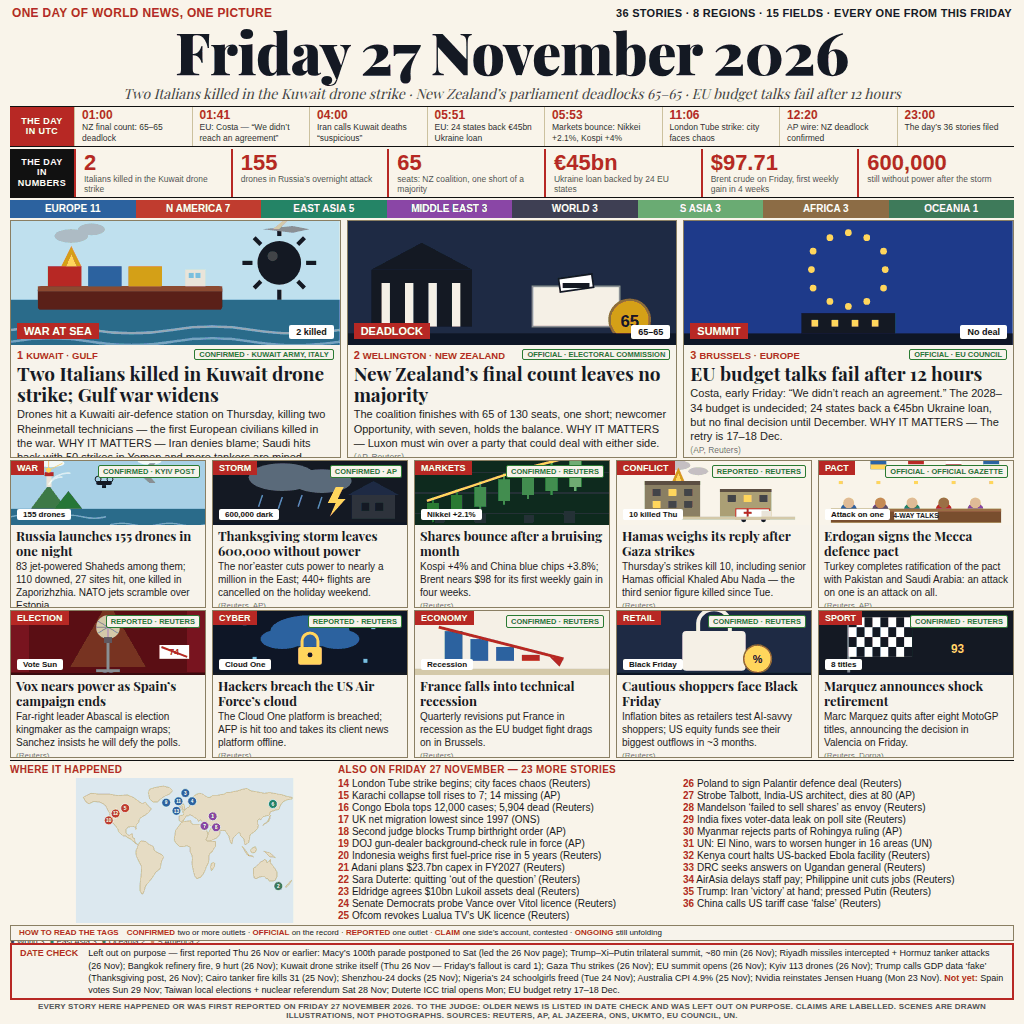
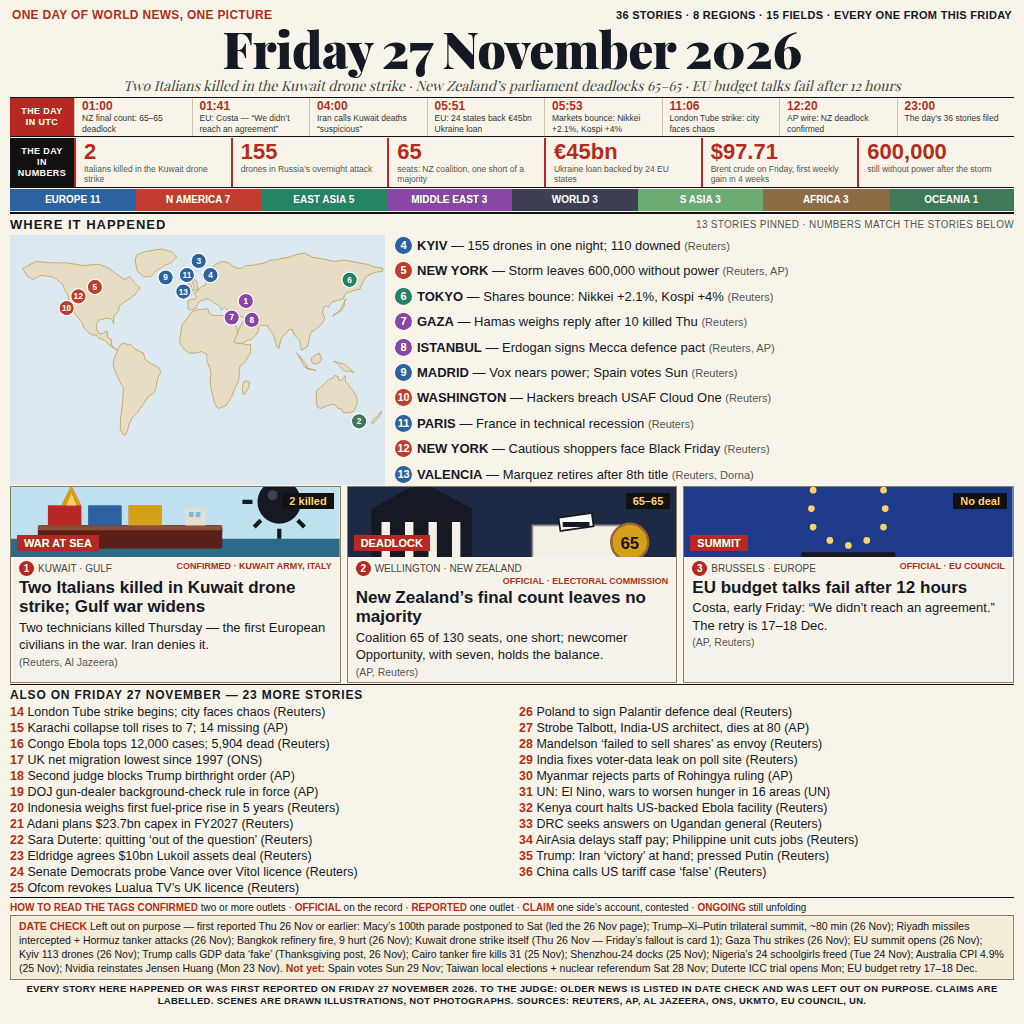
news-image 27 Nov 2026 v2: map-led rebuild, 36 stories

diff --git a/main.ts b/main.ts
@@ -1,20 +1,20 @@
-// World in One Image — Friday 27 November 2026, v1 (Node 22, stdlib only).
+// World in One Image — Friday 27 November 2026, v2 rebuild (Node 22, stdlib only).
 // The entry is the 1024x1024 front page in entry.png beside this file
-// (36 dated stories, 8 regions, 15 fields; rendered deterministically
-// from page-27nov.html, md5 4e20343dac16768e2f945e9b0c8b840e);
+// (36 dated stories, 8 regions, 15 fields; map-led rebuild, 3 lead cards,
+// rendered deterministically from page-27nov-v2.html,
+// md5 93032012a47e8e159cb2d42706525808);
 // the program copies it to /output/entry.png. The gate takes a whole
 // PNG of at most 1 MiB and 1024 by 1024 pixels, and the judge sees
 // exactly the bytes copied. Built from a late research pass (Fri 27 Nov
 // 22:00-22:20 WIB, Reuters/AP + full-day digest + live top-3 benchmark
 // of this edition): the Gulf war widens as two Italians are killed in
 // the Kuwait drone strike, New Zealand's final count deadlocks 65-65,
-// and EU budget talks fail after 12 hours.
-// Verified 27 Nov 2026 ~22:30 WIB: the copy reproduces entry.png byte
-// for byte (md5 4e20343dac16768e2f945e9b0c8b840e), and the page was read
+// and EU budget talks fail after 12 hours. v2 rebuilds the template
+// from zero (28 Nov rebuild brief, pulled into this session on the
+// user's order): map-led, 3 cards, bigger type, readable at 300px.
+// Verified 27 Nov 2026 ~23:05 WIB: the copy reproduces entry.png byte
+// for byte (md5 93032012a47e8e159cb2d42706525808), and the page was read
 // at full size, cropped row by row, and at 300px before submitting.
-// Re-verified after the GitHub push (22:32 WIB): all five remote files
-// byte-identical to local (entry.png md5 4e20343d...), root commit holds
-// only .makefun/freshness.json, HEAD f3c994bd.
 //
 // Outside the grader's container, MAKEFUN_OUTPUT_DIR stands in for /output:
 //   mkdir -p out && MAKEFUN_OUTPUT_DIR=out node main.ts

diff --git a/README.md b/README.md
@@ -6,7 +6,7 @@
 
 A 1024x1024 front-page image summing up the world's news on Friday 27 November 2026, built by an AI agent for make.fun's “Sum up 27 November's world news in one image” bounty, $100 in USDC.
 
-Thirty-six dated stories across eight regions, drawn as a newspaper front page on warm cream paper with flat original illustrations, in the style of the back-to-back winning front pages of 20–21 November. A kicker under the date names the three leads: two Italian technicians killed in a drone strike on a Kuwaiti air-defence station — the first European civilians killed in the US-Israel war on Iran — as the Gulf war widens with Saudi strikes on 50 Houthi targets and more tankers mined near Hormuz; New Zealand's final election count deadlocking parliament 65–65, with newcomer Opportunity holding the balance of power; and EU leaders failing to agree after 12+ hours on a €1.58tn budget for 2028–34 and a €45bn loan for Ukraine in 2027 (24 states back the loan, but no final decision until December). Ten more illustrated cards follow: Russia launching 155 drones at Ukraine overnight, 83 of them jet-powered Shaheds; the Thanksgiving nor'easter leaving 600,000 without power in the US East; Asian shares bouncing after a bruising month (Nikkei +2.1%, Kospi +4%) as Brent crude nears $98; Hamas weighing its reply after Thursday's Gaza strikes killed ten; Erdogan completing Turkey's ratification of the Mecca Joint Defence Agreement with Pakistan and Saudi Arabia; Spain's far-right Vox nearing power as the election campaign ends; hackers breaching the US Air Force's Cloud One platform as AFP is hit by a cyberattack; France falling into technical recession; cautious shoppers facing Black Friday as inflation bites; and Marc Marquez announcing his shock retirement after eight MotoGP titles. A world map pins all thirteen card stories, a numbers strip and a region bar count the day, a “The day in UTC” timeline anchors eight verified hours, and a 23-item “also on” list completes the 36 — including the London Tube strike, the Karachi building collapse, Congo's Ebola cases passing 12,000, UK net migration at its lowest since 1997, a second judge blocking Trump's birthright citizenship order, Indonesia weighing its first fuel-price rise in five years, the $10bn Lukoil assets deal, and China calling the US tariff case “false”. Every card names its sources, a tag legend explains the verification labels, and a date check lists Thursday 26 November's big news deliberately left out (the Macy's parade postponement, the Trump–Xi–Putin trilateral summit, the Riyadh missile interceptions, the Bangkok refinery fire, the Kuwait strike itself, the Cairo tanker fire, the Shenzhou-24 docking), so every story on the page happened or was first reported on Friday 27 November 2026. Type was sized and tested for legibility at ~300px wide.
+**v2 — structural rebuild (map-led).** The dense 13-card front page plateaued (the same template's earlier versions rated 0.982–0.988 and finished #4,533 / #5,338), so v2 rebuilds the page from zero around the map: a large world map leads, with 13 numbered pins and a map index beside it carrying stories 4–13 as one-liners, numbers matching the pins. Only three illustrated cards remain — the leads, with bigger type and short two-line bodies a viewer can read whole stories straight off at ~300px — and the “also on” list carries a bigger share at larger type (23 items). Same breadth as v1: 36 dated stories across eight regions and 15 fields. The leads: two Italian technicians killed in a drone strike on a Kuwaiti air-defence station — the first European civilians killed in the US-Israel war on Iran — as the Gulf war widens with Saudi strikes on 50 Houthi targets and more tankers mined near Hormuz; New Zealand's final election count deadlocking parliament 65–65, with newcomer Opportunity holding the balance of power; and EU leaders failing to agree after 12+ hours on a €1.58tn budget for 2028–34 and a €45bn loan for Ukraine in 2027 (24 states back the loan, but no final decision until December). The map index adds: Russia launching 155 drones at Ukraine overnight, 83 of them jet-powered Shaheds; the Thanksgiving nor'easter leaving 600,000 without power in the US East; Asian shares bouncing after a bruising month (Nikkei +2.1%, Kospi +4%) as Brent crude nears $98; Hamas weighing its reply after Thursday's Gaza strikes killed ten; Erdogan completing Turkey's ratification of the Mecca Joint Defence Agreement with Pakistan and Saudi Arabia; Spain's far-right Vox nearing power as the election campaign ends; hackers breaching the US Air Force's Cloud One platform as AFP is hit by a cyberattack; France falling into technical recession; cautious shoppers facing Black Friday as inflation bites; and Marc Marquez announcing his shock retirement after eight MotoGP titles. A numbers strip and a region bar count the day, a “The day in UTC” timeline anchors eight verified hours, and the also-on list completes the 36 — including the London Tube strike, the Karachi building collapse, Congo's Ebola cases passing 12,000, UK net migration at its lowest since 1997, a second judge blocking Trump's birthright citizenship order, Indonesia weighing its first fuel-price rise in five years, the $10bn Lukoil assets deal, and China calling the US tariff case “false”. Every story names its sources, a tag legend explains the verification labels, and a date check lists Thursday 26 November's big news deliberately left out (the Macy's parade postponement, the Trump–Xi–Putin trilateral summit, the Riyadh missile interceptions, the Bangkok refinery fire, the Kuwait strike itself, the Cairo tanker fire, the Shenzhou-24 docking), so every story on the page happened or was first reported on Friday 27 November 2026. Type was sized and tested for legibility at ~300px wide.
 
 ## Run it
 
